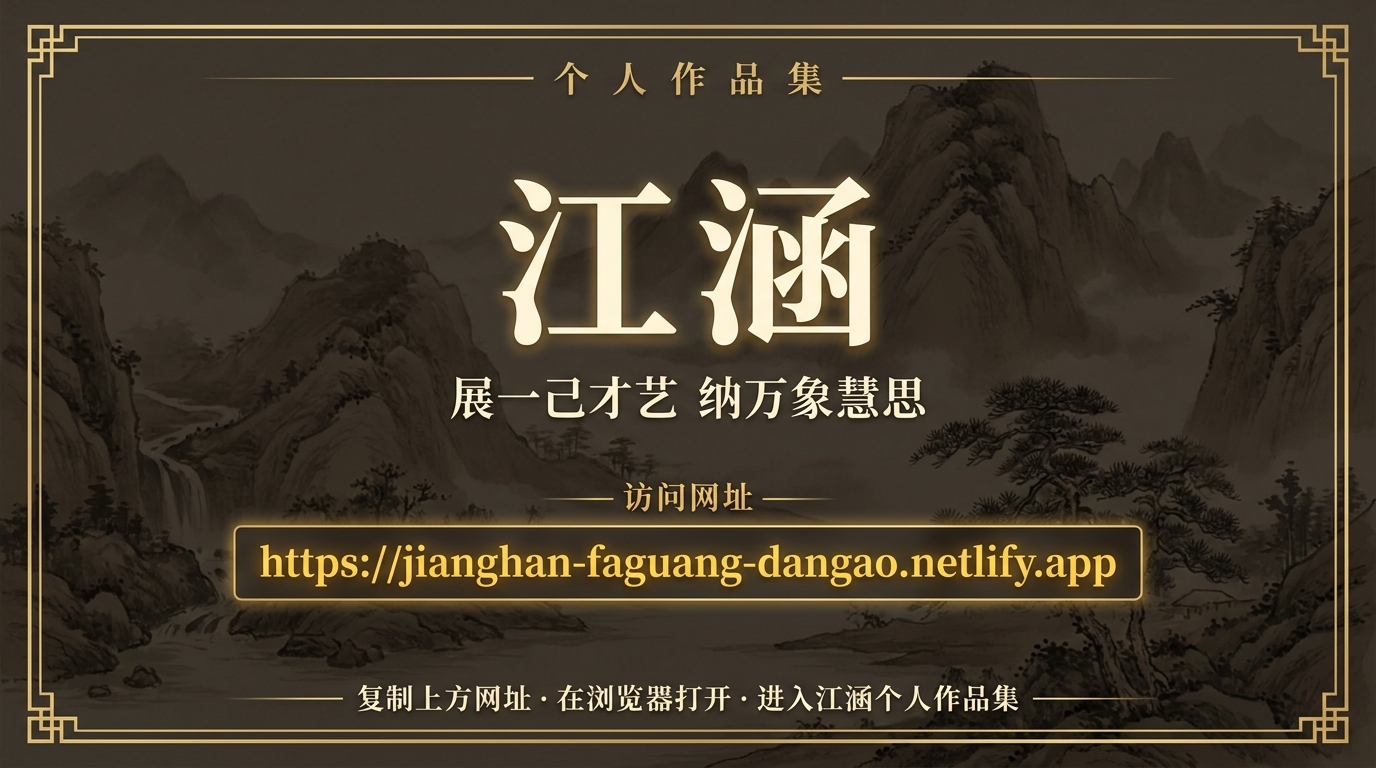
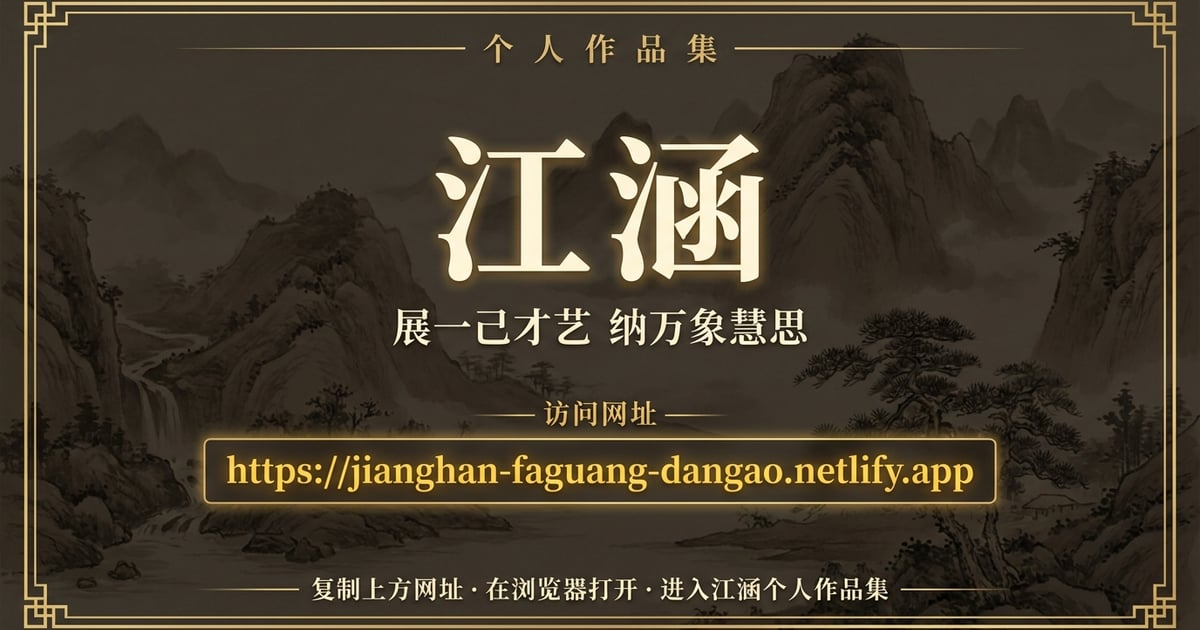
link-card.png 重新生成 1200x630 jpeg + og:image尺寸修正 + cache busting

diff --git a/index.html b/index.html
@@ -10,9 +10,9 @@
   <meta property="og:description" content="汇一己才艺　纳万象慧思">
   <meta property="og:type" content="website">f
   <meta property="og:url" content="https://jianghan-gallery.pages.dev/">
-  <meta property="og:image" content="https://jianghan-gallery.pages.dev/link-card.png">
-  <meta property="og:image:width" content="1920">
-  <meta property="og:image:height" content="1080">
+  <meta property="og:image" content="https://jianghan-gallery.pages.dev/link-card.png?v=2">
+  <meta property="og:image:width" content="1200">
+  <meta property="og:image:height" content="630">
   <meta name="twitter:card" content="summary_large_image">
   <meta name="twitter:title" content="江涵发光的蛋糕 — 个人作品集">
   <meta name="twitter:description" content="汇一己才艺　纳万象慧思">
